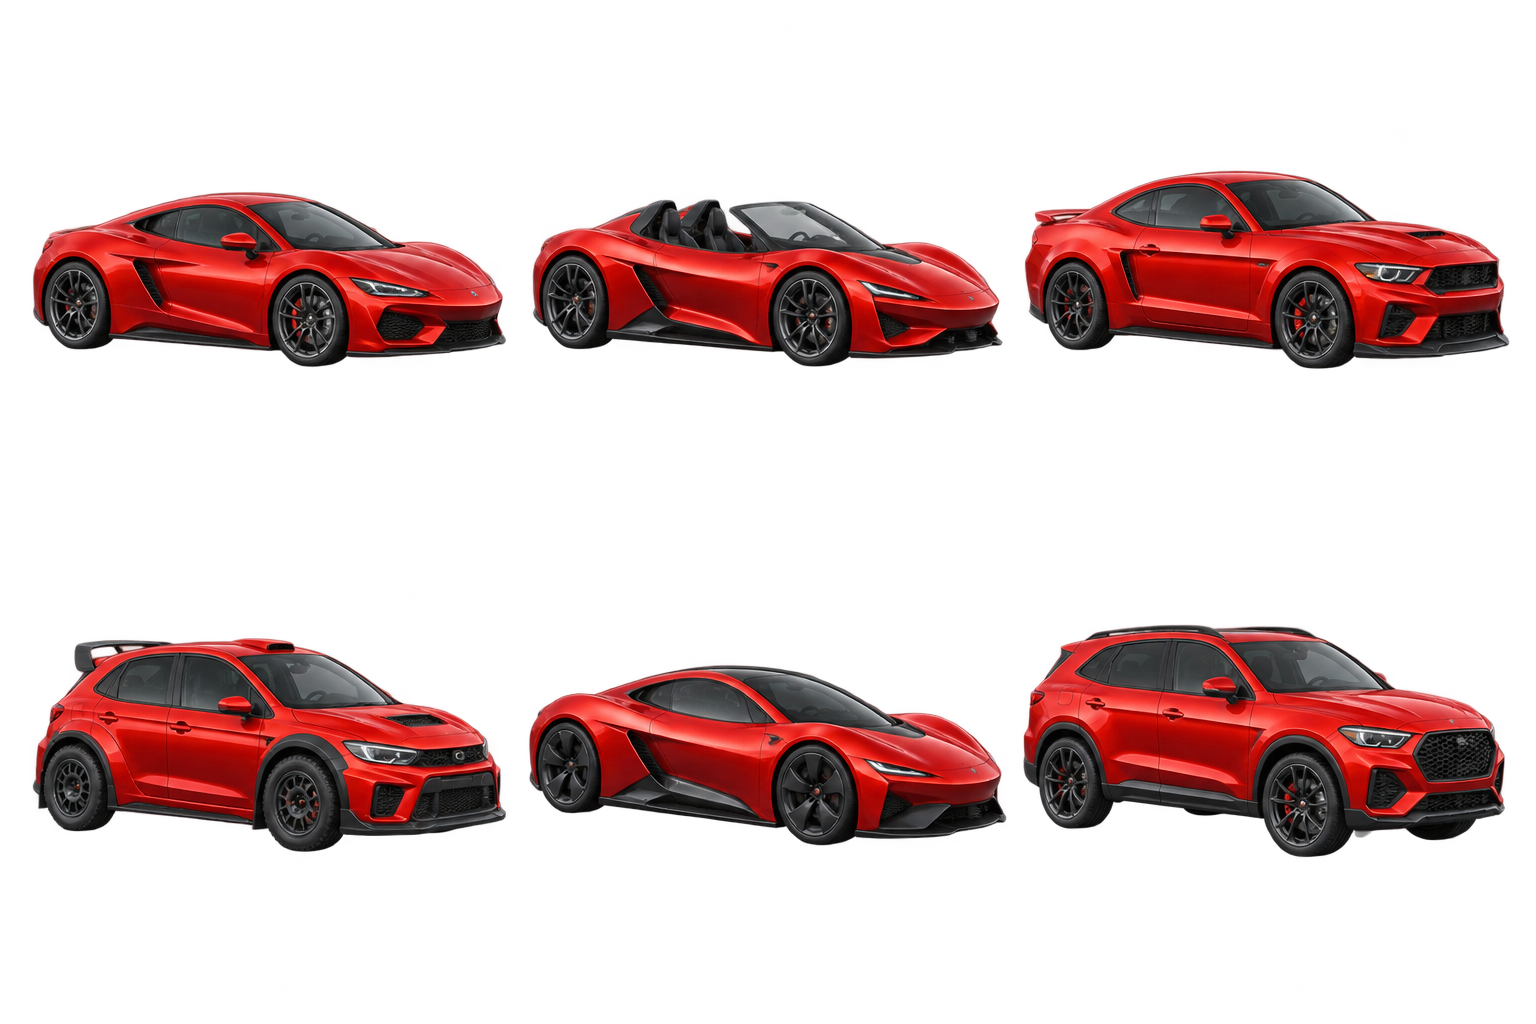
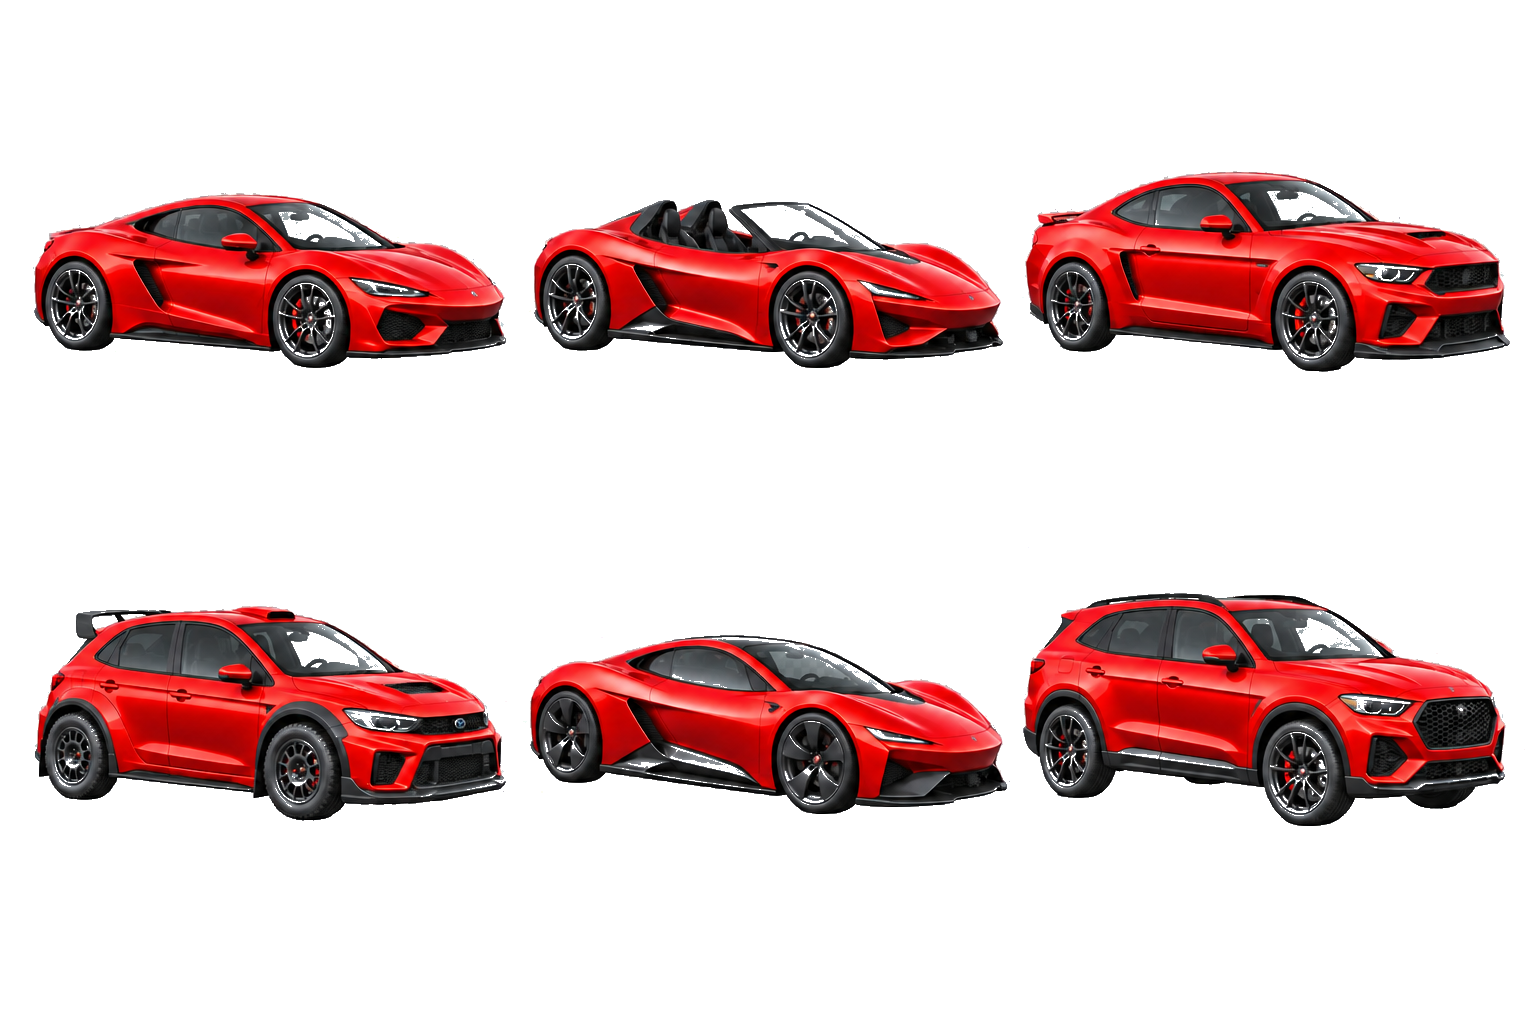
Add files via upload

Changed region(s): [[0.0, 0.5625, 1.0, 0.8438], [0.0, 0.1562, 1.0, 0.375]]

diff --git a/race-features.css b/race-features.css
@@ -1,7 +1,7 @@
 .race-builder-tools{display:grid;gap:12px;margin:12px 0;padding:14px;border:1px solid #d8e3ef;border-radius:14px;background:#f7fbff}.race-builder-tools h3{margin:0;color:#173868;font-size:.9rem}.race-tool-row{display:grid;grid-template-columns:repeat(2,minmax(0,1fr));gap:9px}.race-tool-row.three{grid-template-columns:repeat(3,minmax(0,1fr))}.race-builder-tools label{gap:5px!important}.race-builder-tools select,.race-builder-tools input{width:100%;min-height:40px;padding:8px 10px;border:1px solid #cbd8e6;border-radius:9px;background:#fff;color:#173868;font:700 .78rem Inter,sans-serif}.race-list-actions{display:grid;grid-template-columns:1fr auto auto;gap:7px}.race-list-actions .button{min-height:38px;padding:0 10px}.race-checks{display:flex;flex-wrap:wrap;gap:11px}.race-checks label{display:flex!important;flex-direction:row!important;align-items:center;gap:6px!important}.race-checks input{width:17px;min-height:17px}.race-avatar-row{display:grid;grid-template-columns:1fr 1fr;gap:9px}.race-host-controls{display:flex;align-items:center;gap:7px;margin-left:auto}.race-host-controls[hidden]{display:none}.race-host-controls button{border:1px solid rgba(255,255,255,.35);border-radius:8px;padding:6px 9px;color:#fff;background:rgba(255,255,255,.12);font:800 .72rem Inter,sans-serif;cursor:pointer}.race-clock{min-width:62px;padding:5px 9px;border-radius:8px;background:#fff;color:#173868;text-align:center;font:900 .82rem Inter,sans-serif}.race-lane-metrics{position:absolute;z-index:4;right:28px;top:7px;padding:3px 7px;border-radius:6px;background:rgba(8,25,49,.78);color:#dff6ff;font:800 .6rem Inter,sans-serif}.race-lane-avatar{margin-right:4px}.team-scoreboard{display:flex;gap:7px;padding:9px 12px;overflow-x:auto;background:#12213f}.team-scoreboard[hidden]{display:none}.team-scoreboard span{white-space:nowrap;padding:6px 10px;border-radius:999px;background:#fff;color:#173868;font:800 .7rem Inter,sans-serif}.lobby-player-chip{display:inline-flex!important;align-items:center;gap:5px}.lobby-player-chip button{border:0;border-radius:5px;padding:2px 5px;background:rgba(23,56,104,.1);color:#173868;cursor:pointer}.race-settings-summary{margin:10px auto 0;padding:8px 12px;border-radius:10px;background:#edf6ff;color:#526075;font:700 .74rem Inter,sans-serif}.race-result-toolbar{display:flex;justify-content:center;gap:9px;margin-top:10px}.race-result-toolbar .button{min-width:135px}.race-stage.is-paused .race-track::before{animation-play-state:paused}.race-stage.is-paused .race-car{filter:grayscale(.5) drop-shadow(0 5px 5px rgba(0,0,0,.32))}.race-stage.is-paused .race-status{background:#a66700}.race-live.teacher-view .race-status{gap:10px}.race-live.teacher-view .race-position{margin-left:0}@media(max-width:720px){.race-tool-row,.race-tool-row.three,.race-avatar-row{grid-template-columns:1fr}.race-list-actions{grid-template-columns:1fr 1fr}.race-list-actions select{grid-column:1/-1}.race-host-controls{width:100%;margin:4px 0 0;justify-content:center;flex-wrap:wrap}.race-status{flex-wrap:wrap}.race-lane-metrics{right:22px;font-size:.52rem}}
 @media print{body.print-race>*:not(.app-shell){display:none!important}body.print-race .topbar,body.print-race .workspace-heading,body.print-race .game-grid,body.print-race .race-top,body.print-race .race-status,body.print-race .results-actions,body.print-race .race-result-toolbar,body.print-race .privacy,body.print-race .creator-credit{display:none!important}body.print-race .games-view,body.print-race .race-stage,body.print-race .race-live,body.print-race .race-results{display:block!important;max-width:none!important;min-height:0!important;margin:0!important;padding:12px!important;background:#fff!important;color:#111!important;box-shadow:none!important}body.print-race .podium-block,body.print-race .other-racers{color:#111!important;background:#f2f5f8!important;border:1px solid #bbb!important;box-shadow:none!important}body.print-race .confetti{display:none!important}}
 .podium-vehicle.vehicle-color-1{filter:hue-rotate(205deg) saturate(1.2) drop-shadow(0 8px 8px rgba(0,0,0,.32))}.podium-vehicle.vehicle-color-2{filter:hue-rotate(42deg) saturate(1.3) drop-shadow(0 8px 8px rgba(0,0,0,.32))}.podium-vehicle.vehicle-color-3{filter:hue-rotate(95deg) saturate(1.05) drop-shadow(0 8px 8px rgba(0,0,0,.32))}.podium-vehicle.vehicle-color-4{filter:hue-rotate(13deg) saturate(1.25) drop-shadow(0 8px 8px rgba(0,0,0,.32))}.podium-vehicle.vehicle-color-5{filter:hue-rotate(245deg) saturate(1.15) drop-shadow(0 8px 8px rgba(0,0,0,.32))}.podium-vehicle.vehicle-color-6{filter:hue-rotate(300deg) saturate(1.15) drop-shadow(0 8px 8px rgba(0,0,0,.32))}.podium-vehicle.vehicle-color-7{filter:grayscale(1) brightness(1.8) drop-shadow(0 8px 8px rgba(0,0,0,.32))}.podium-vehicle.vehicle-color-8{filter:grayscale(1) brightness(.32) drop-shadow(0 8px 8px rgba(0,0,0,.32))}.podium-vehicle.vehicle-color-9{filter:grayscale(.7) brightness(1.25) drop-shadow(0 8px 8px rgba(0,0,0,.32))}
-.vehicle-sprite{mix-blend-mode:screen;background-color:transparent}.vehicle-color-7{filter:grayscale(1) brightness(1.35) contrast(1.18)}.race-car.vehicle-sprite{width:76px;height:72px;bottom:-9px;border-radius:0;box-shadow:none}.podium-vehicle{mix-blend-mode:screen}.lobby-vehicle{mix-blend-mode:screen}@media(max-width:720px){.race-car.vehicle-sprite{width:66px;height:62px;bottom:-7px}}
+.vehicle-sprite{mix-blend-mode:normal;background-color:transparent}.vehicle-color-7{filter:grayscale(1) brightness(1.35) contrast(1.18)}.race-car.vehicle-sprite{width:76px;height:72px;bottom:-9px!important;transform:translateY(10px)!important;border-radius:0;box-shadow:none}.podium-vehicle,.lobby-vehicle{mix-blend-mode:normal}@media(max-width:720px){.race-car.vehicle-sprite{width:66px;height:62px;bottom:-7px!important;transform:translateY(8px)!important}}
 .race-live.difficulty-hard:not(.teacher-view)>.race-key-instruction,.race-live.difficulty-hard:not(.teacher-view)>.race-keyboard{display:none}.race-live.difficulty-hard:not(.teacher-view)>.race-prompt::after{content:" · Keyboard hints are hidden on Hard."}
 .vehicle-showroom{position:relative;display:grid;grid-template-columns:38px minmax(0,1fr) 38px;align-items:center;gap:8px;min-height:300px;margin:16px 0;padding:14px;border:1px solid #d6e3f0;border-radius:18px;background:radial-gradient(circle at 50% 35%,#244e78,transparent 42%),linear-gradient(145deg,#102a54,#07162f);overflow:hidden}.vehicle-showroom::after{content:"";position:absolute;left:8%;right:8%;bottom:42px;height:2px;background:linear-gradient(90deg,transparent,rgba(255,255,255,.5),transparent)}.vehicle-preview-wrap{position:relative;z-index:1;text-align:center}.vehicle-preview{width:min(100%,360px);aspect-ratio:1;margin:auto;background-repeat:no-repeat;border-radius:16px;filter:drop-shadow(0 18px 14px rgba(0,0,0,.3));transition:filter .2s,transform .2s}.vehicle-preview:hover{transform:scale(1.025)}.vehicle-showroom button{position:relative;z-index:2;width:38px;height:44px;border:1px solid rgba(255,255,255,.35);border-radius:10px;background:rgba(255,255,255,.12);color:#fff;font-size:1.35rem;cursor:pointer}.vehicle-preview-wrap strong,.vehicle-preview-wrap small{display:block;position:relative;z-index:2;color:#fff}.vehicle-preview-wrap strong{margin-top:-12px;font-size:1rem}.vehicle-preview-wrap small{margin-top:3px;color:#a9c8e8;font-size:.72rem}.vehicle-sprite{background-image:url('gln-race-cars.png');background-repeat:no-repeat;background-size:300% 200%;background-color:#170b0d}.vehicle-model-0{background-position:0 0}.vehicle-model-1{background-position:50% 0}.vehicle-model-2{background-position:100% 0}.vehicle-model-3{background-position:0 100%}.vehicle-model-4{background-position:50% 100%}.vehicle-model-5{background-position:100% 100%}.vehicle-color-0{filter:none}.vehicle-color-1{filter:hue-rotate(205deg) saturate(1.2)}.vehicle-color-2{filter:hue-rotate(48deg) saturate(1.35) brightness(1.18)}.vehicle-color-3{filter:hue-rotate(115deg) saturate(1.15)}.vehicle-color-4{filter:hue-rotate(25deg) saturate(1.2) brightness(1.08)}.vehicle-color-5{filter:hue-rotate(265deg) saturate(1.1)}.vehicle-color-6{filter:hue-rotate(315deg) saturate(1.15) brightness(1.12)}.vehicle-color-7{filter:grayscale(1) brightness(1.7) contrast(.72)}.vehicle-color-8{filter:grayscale(1) brightness(.52) contrast(1.25)}.vehicle-color-9{filter:grayscale(1) brightness(1.12) contrast(.9)}.race-car.vehicle-sprite{width:104px;height:56px;bottom:1px;border-radius:8px;box-shadow:0 5px 10px rgba(0,0,0,.25)}.race-car.vehicle-sprite::before{display:none}.podium-vehicle{width:min(150px,90%);aspect-ratio:1;margin-bottom:-22px;border-radius:12px;filter:drop-shadow(0 8px 8px rgba(0,0,0,.32))}.lobby-vehicle{display:inline-block;width:34px;height:28px;margin-right:3px;border-radius:5px;vertical-align:middle}.lobby-player-chip .lobby-vehicle{flex:0 0 34px}@media(max-width:720px){.vehicle-showroom{min-height:245px}.vehicle-preview{width:min(100%,270px)}.race-car.vehicle-sprite{width:78px;height:46px}}
 .race-live-code{display:inline-flex;align-items:center;gap:7px;padding:5px 10px;border:1px solid rgba(255,255,255,.45);border-radius:8px;background:rgba(255,255,255,.14);color:#fff;font:800 .72rem Inter,sans-serif;white-space:nowrap}.race-live-code strong{font-size:1rem;letter-spacing:.14em}.race-live-code[hidden]{display:none}.race-lane-actions{position:absolute;z-index:7;right:178px;top:7px}.race-lane-actions button{border:1px solid rgba(255,255,255,.38);border-radius:6px;padding:3px 7px;background:rgba(139,24,37,.9);color:#fff;font:800 .6rem Inter,sans-serif;cursor:pointer}.removed-player-bar{display:flex;align-items:center;gap:7px;min-height:0;padding:8px 12px;overflow-x:auto;background:#fff4e8;color:#7c3d00}.removed-player-bar[hidden]{display:none}.removed-player-bar>strong{white-space:nowrap;font-size:.7rem}.removed-player-bar span{display:inline-flex;align-items:center;gap:6px;white-space:nowrap;padding:5px 8px;border:1px solid #efc58d;border-radius:8px;background:#fff;font:700 .68rem Inter,sans-serif}.removed-player-bar button{border:0;border-radius:6px;padding:4px 7px;background:#173868;color:#fff;font:800 .62rem Inter,sans-serif;cursor:pointer}.race-removed-screen{display:grid;place-items:center;min-height:520px;padding:28px;background:linear-gradient(145deg,#eef6ff,#fff)}.race-removed-screen[hidden]{display:none}.race-removed-card{width:min(520px,100%);padding:34px;border:1px solid #d5e2ef;border-radius:20px;background:#fff;text-align:center;box-shadow:0 18px 45px rgba(18,33,63,.12)}.race-removed-card span{font-size:3rem}.race-removed-card h2{margin:12px 0 8px;color:#173868}.race-removed-card p{margin:0 0 18px;color:#667085;line-height:1.55}.race-removed-card .button[hidden]{display:none}@media(max-width:720px){.race-live-code{order:3;width:100%;justify-content:center}.race-lane-actions{right:140px}.race-lane-actions button{font-size:0}.race-lane-actions button::after{content:"×";font-size:.8rem}}

diff --git a/index.html b/index.html
@@ -17,7 +17,7 @@
   <link rel="stylesheet" href="race.css?v=20260910-6" />
   <link rel="stylesheet" href="mobile-keyboard.css?v=20260910-6" />
   <link rel="stylesheet" href="race-modern.css?v=20260910-6" />
-  <link rel="stylesheet" href="race-features.css?v=20260911-4" />
+  <link rel="stylesheet" href="race-features.css?v=20260911-5" />
   <link rel="stylesheet" href="creator-credit.css?v=20260910-6" />
   <link rel="stylesheet" href="quiz.css?v=20260910-6" />
   <link rel="stylesheet" href="quiz-classroom.css?v=20260910-8" />
@@ -350,7 +350,7 @@ Taylor</textarea><small>Enter one student per line.</small></label>
   <script src="practice.js?v=20260910-6"></script>
   <script src="games.js?v=20260910-6"></script>
   <script src="race.js?v=20260910-17"></script>
-  <script src="race-features.js?v=20260911-4"></script>
+  <script src="race-features.js?v=20260911-5"></script>
   <script src="quiz.js?v=20260910-9"></script>
   <script src="quiz-classroom.js?v=20260910-9"></script>
   <script src="calculator.js?v=20260910-19"></script>
